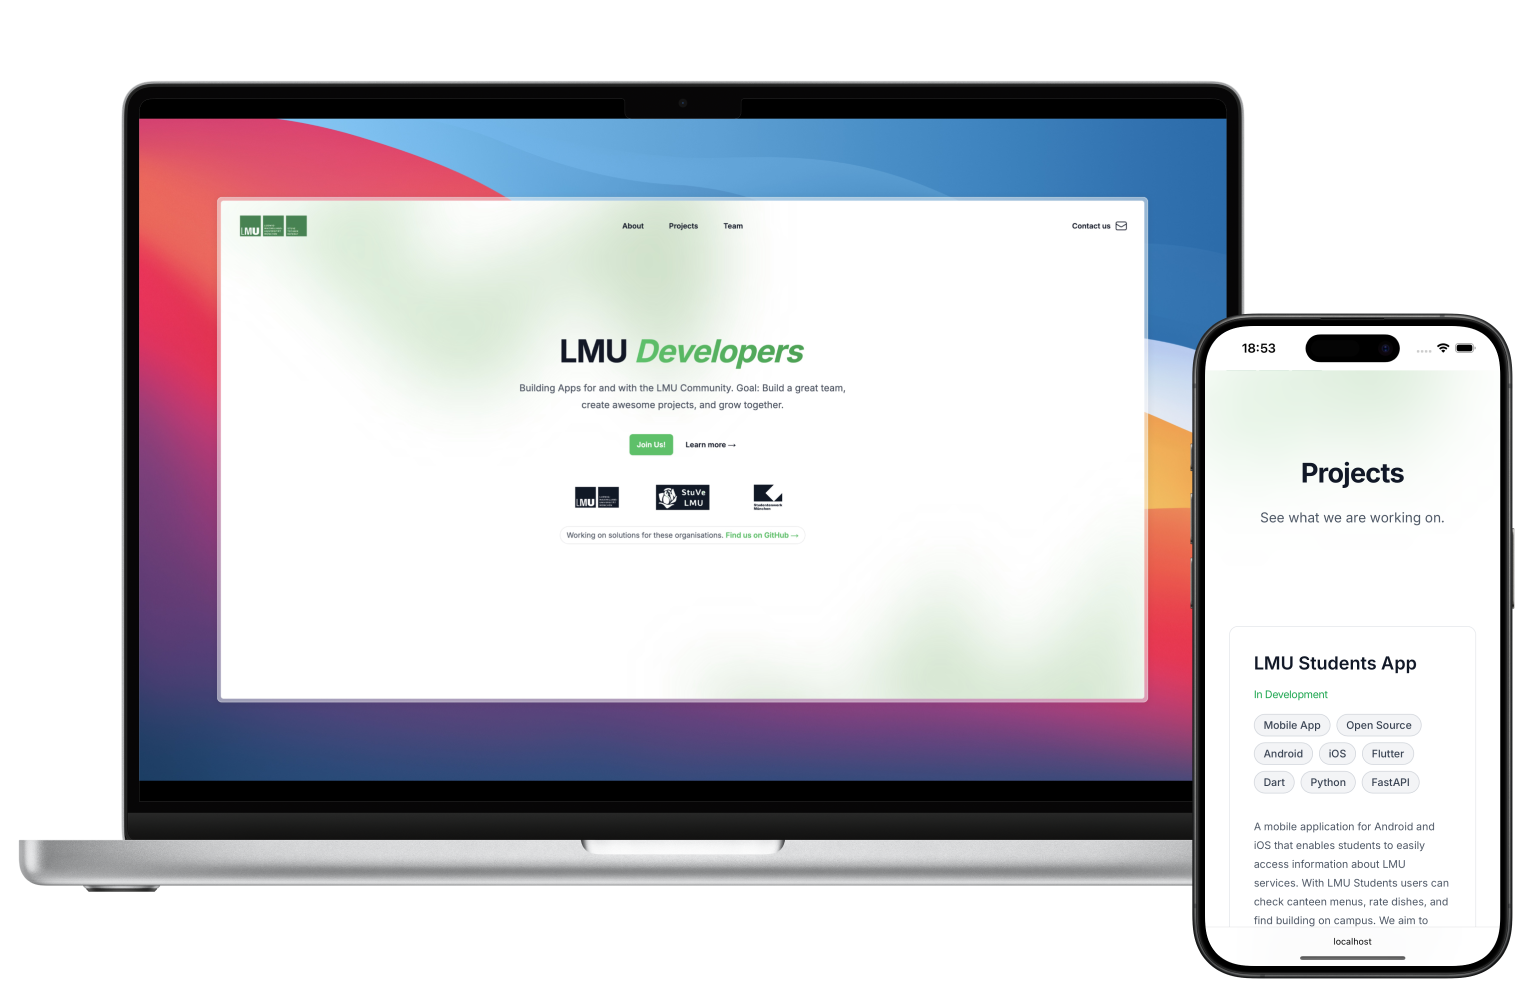
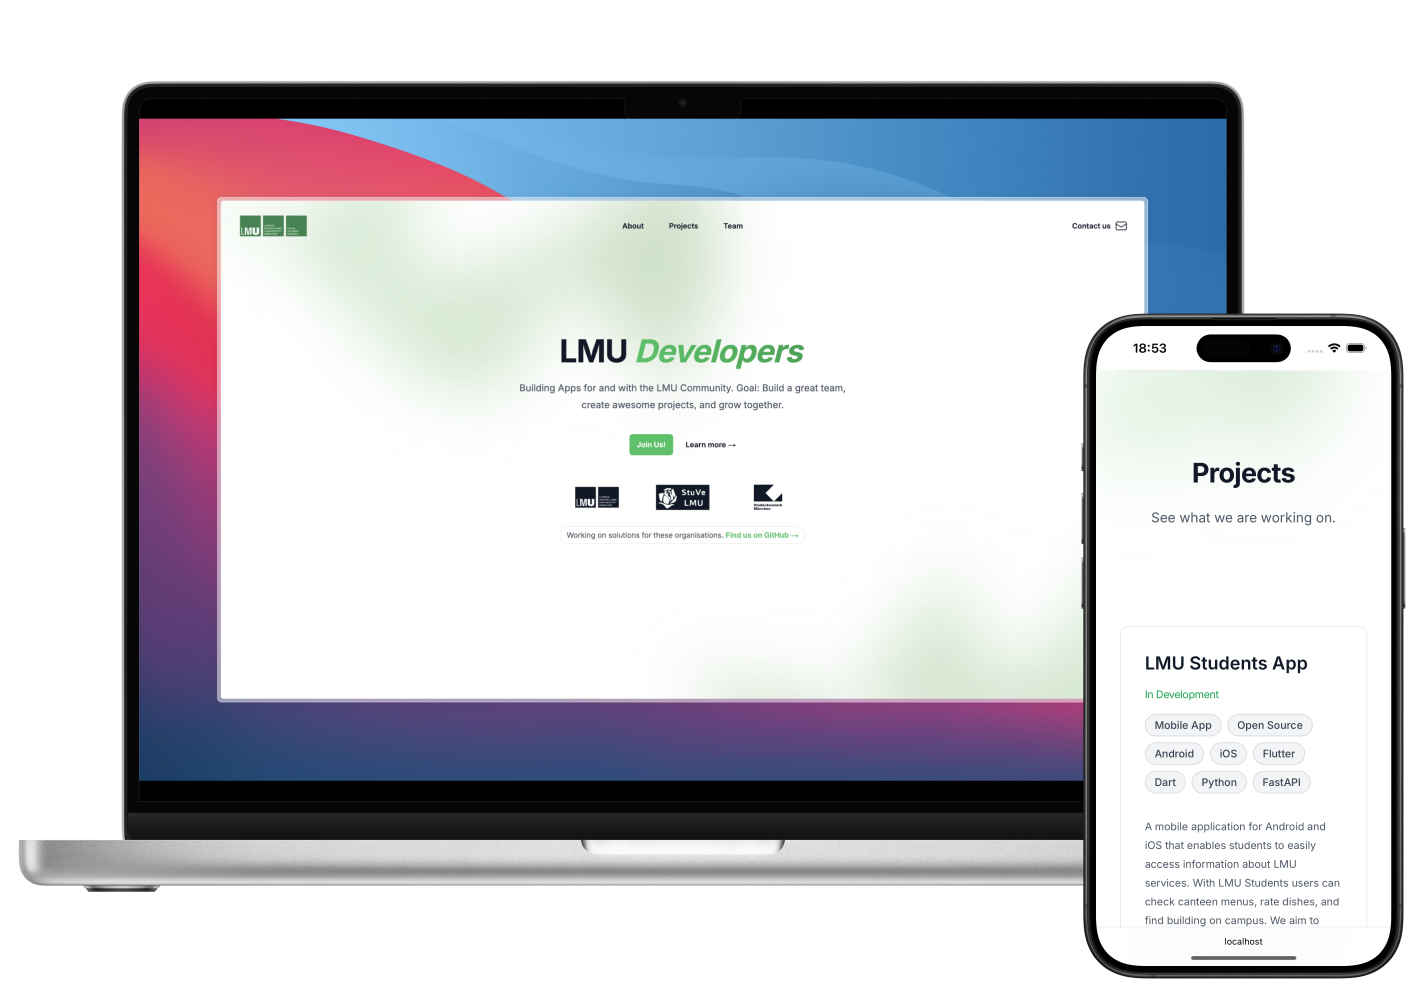
Added team member pictures and refactored project card component

diff --git a/src/app/team/team_member_data.tsx b/src/app/team/team_member_data.tsx
@@ -10,7 +10,7 @@ interface TeamMemberData {
 export const team: TeamMemberData[] = [
     {
         name: "Lukas Plenk",
-        image: "/team/avatar_placeholder_male.png",
+        image: "/team/lukas.jpeg",
         links: [
             {
             url: "https://github.com/LukPle",
@@ -24,7 +24,7 @@ export const team: TeamMemberData[] = [
     },
     {
         name: "Paul Walter",
-        image: "/team/avatar_placeholder_male.png",
+        image: "/team/paul.jpeg",
         links: [
             {
             url: "https://github.com/BitterSchoki",
@@ -38,7 +38,7 @@ export const team: TeamMemberData[] = [
     },
     {
         name: "Raphael Wennmacher",
-        image: "/team/avatar_placeholder_male.png",
+        image: "/team/raffi.jpeg",
         links: [
           {
             url: "https://github.com/rpgraffi",
@@ -52,7 +52,7 @@ export const team: TeamMemberData[] = [
       },
       {
         name: "Timothy Summers",
-        image: "/team/avatar_placeholder_male.png",
+        image: "/team/tim.jpeg",
         links: [
           {
             url: "https://github.com/timothymaxwellsummers",
@@ -66,7 +66,7 @@ export const team: TeamMemberData[] = [
       },
       {
         name: "Fiona Lau",
-        image: "/team/avatar_placeholder_female.png",
+        image: "/team/fiona.jpeg",
         links: [
           {
             url: "https://github.com/blackSwan566",
@@ -80,7 +80,7 @@ export const team: TeamMemberData[] = [
       },
       {
         name: "Anton Rockenstein",
-        image: "/team/avatar_placeholder_male.png",
+        image: "/team/anton.jpg",
         links: [
           {
             url: "https://github.com/SirAntonySir",

diff --git a/src/app/projects/project_card.tsx b/src/app/projects/project_card.tsx
@@ -21,8 +21,8 @@ export default function ProjectCard({
   links,
 }: ProjectCardProps) {
   return (
-    <div className="max-w-6xl mx-auto p-8 border border-gray-200 rounded-xl bg-white">
-      <div className="flex flex-col lg:flex-row gap-8 h-full">
+    <div className="h-full flex flex-col max-w-6xl mx-auto p-8 border border-gray-200 rounded-xl bg-white">
+      <div className="flex flex-1 flex-col lg:flex-row gap-8">
         {/* Project Details Section */}
         <div className="flex-1 lg:flex-[2] flex flex-col justify-between">
           <div>
@@ -71,16 +71,18 @@ export default function ProjectCard({
 
         {/* Image Section */}
         <div className="lg:flex-[1] flex flex-col items-center">
-          <Image
-            src={previewImage}
-            alt={title}
-            width={448}
-            height={560}
-            className="h-auto max-h-[420px] object-contain rounded-lg"
-          />
+          <div className="relative w-full max-w-[448px] h-[320px] lg:h-[420px]">
+            <Image
+              src={previewImage}
+              alt={title}
+              layout="fill"
+              objectFit="contain"
+              className="rounded-lg"
+            />
+          </div>
 
           {/* Links Section for Mobile and Tablet */}
-          <div className="mt-8 flex flex-wrap gap-x-8 gap-y-4 lg:hidden">
+          <div className="w-full mt-8 flex flex-wrap justify-center gap-x-8 gap-y-4 lg:hidden">
             {links.map((link, index) => (
               <a
                 key={index}
